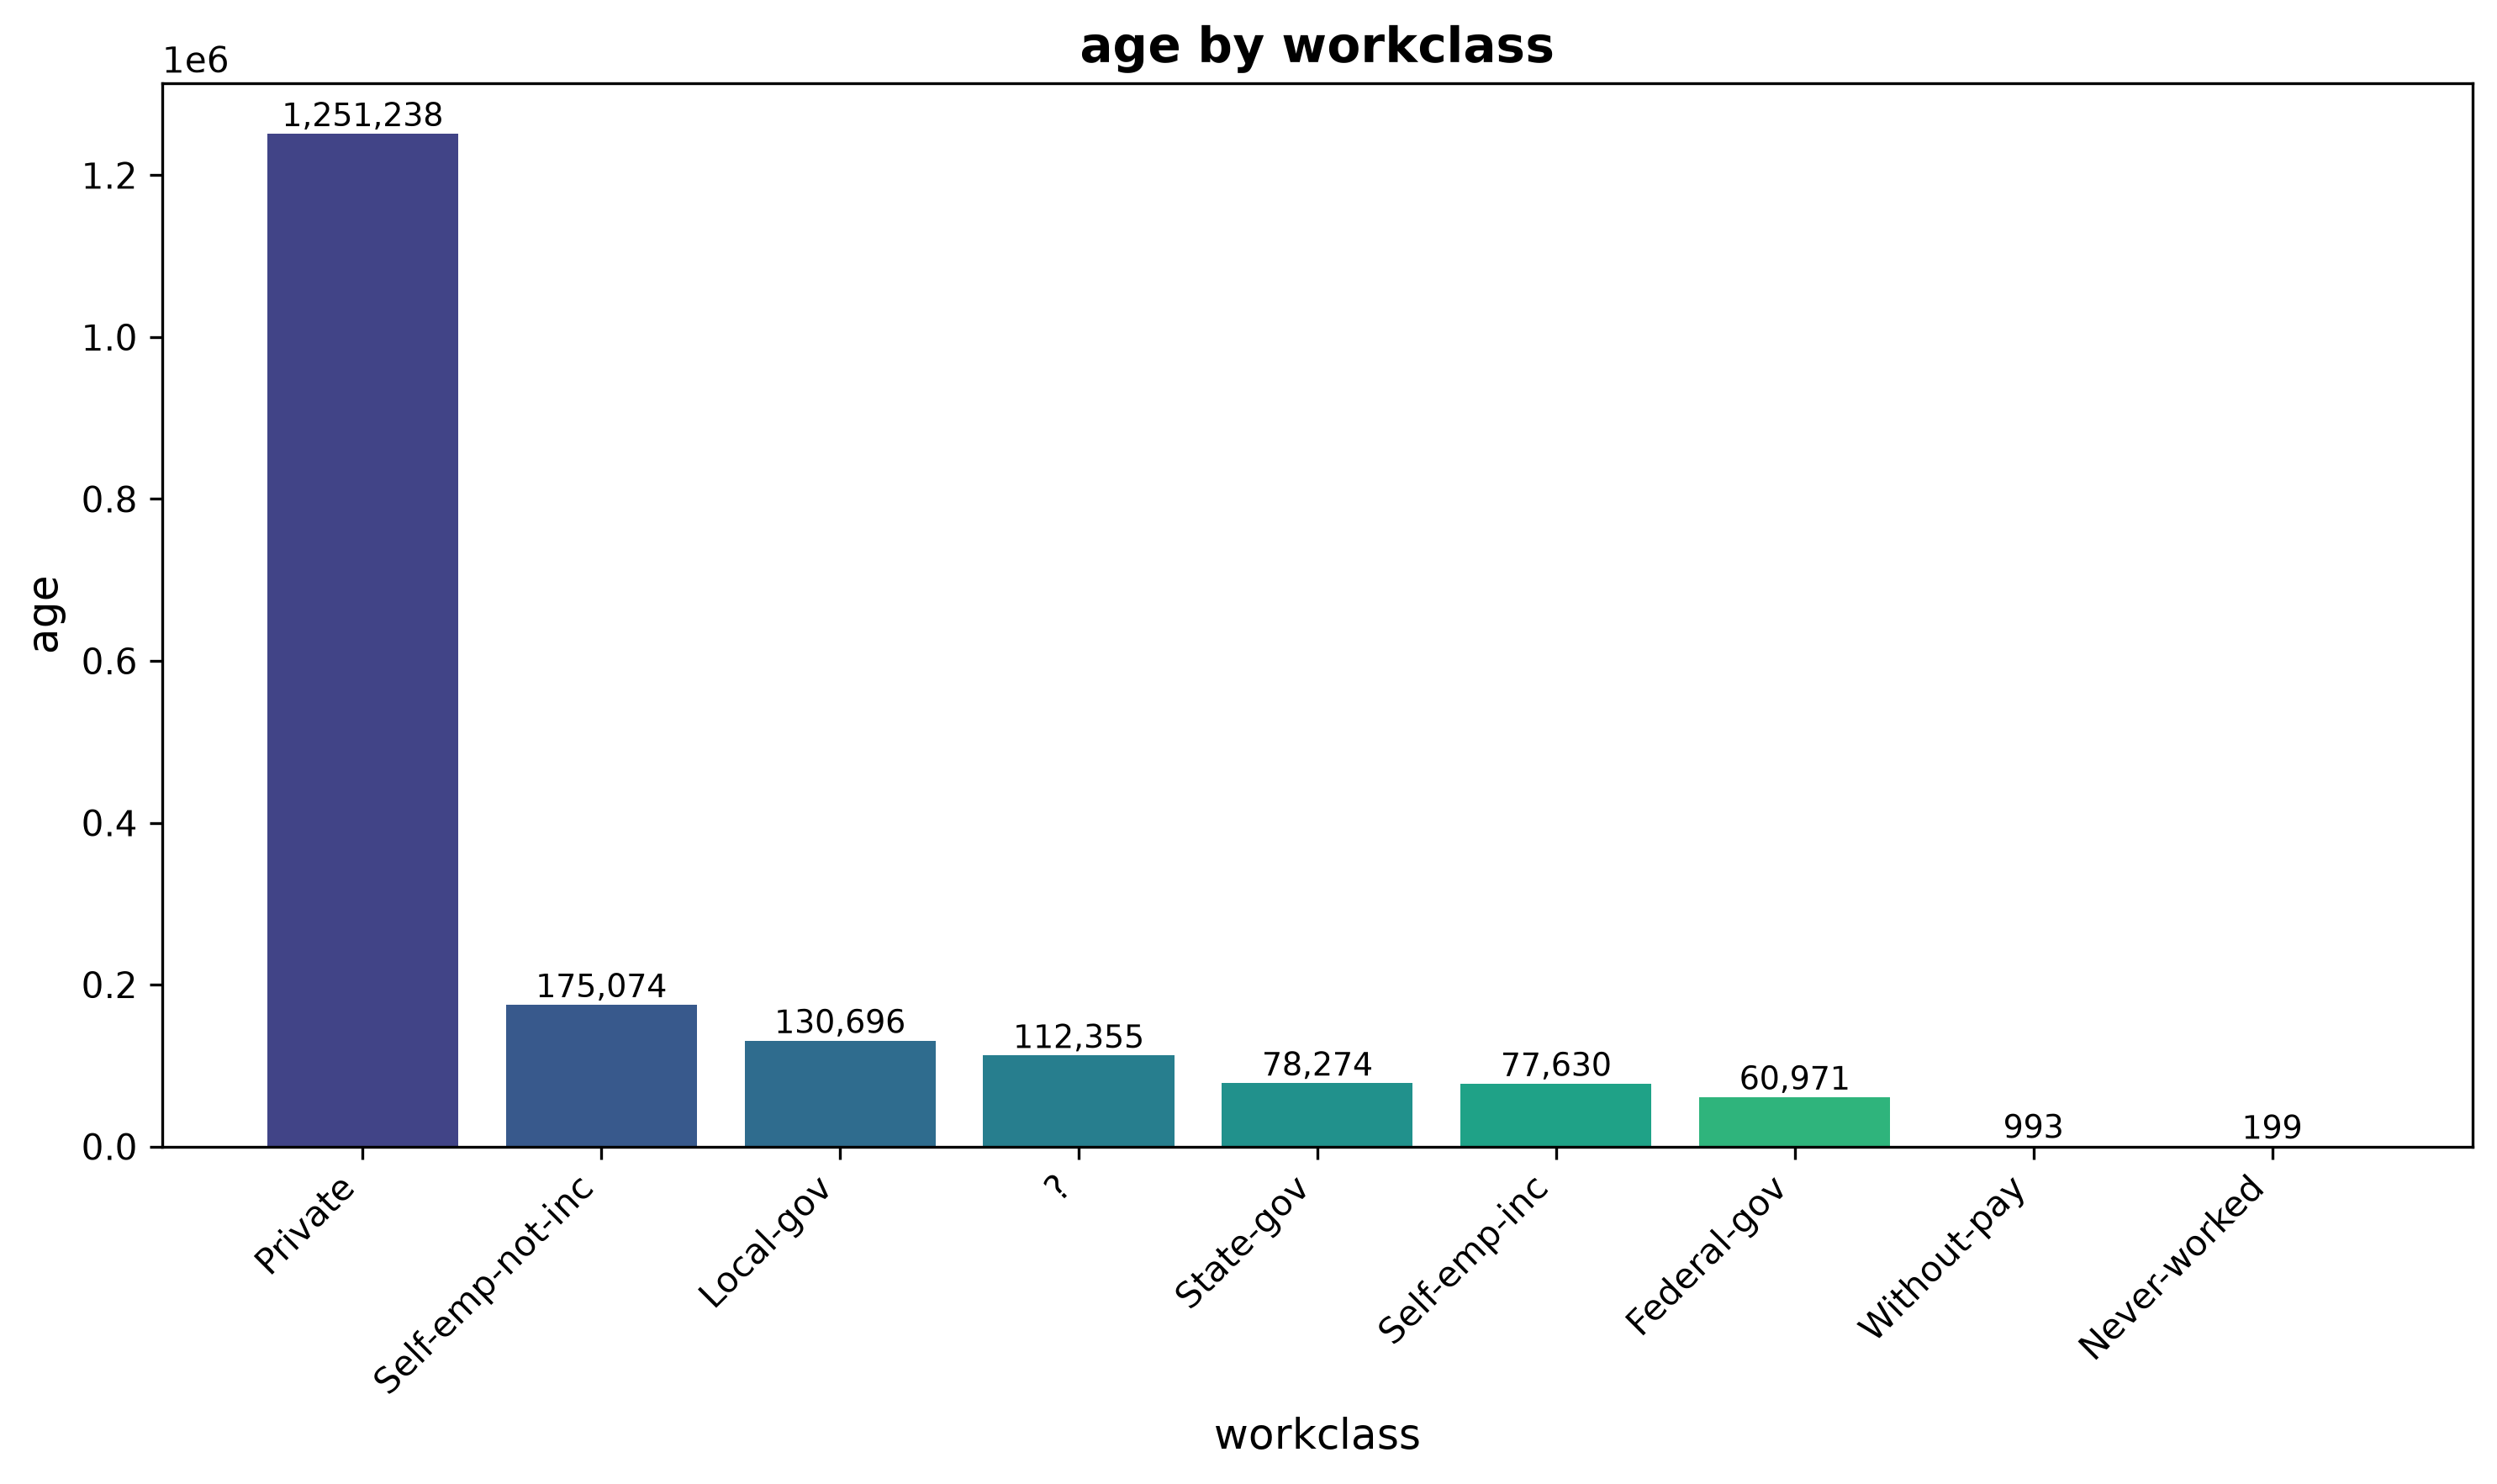
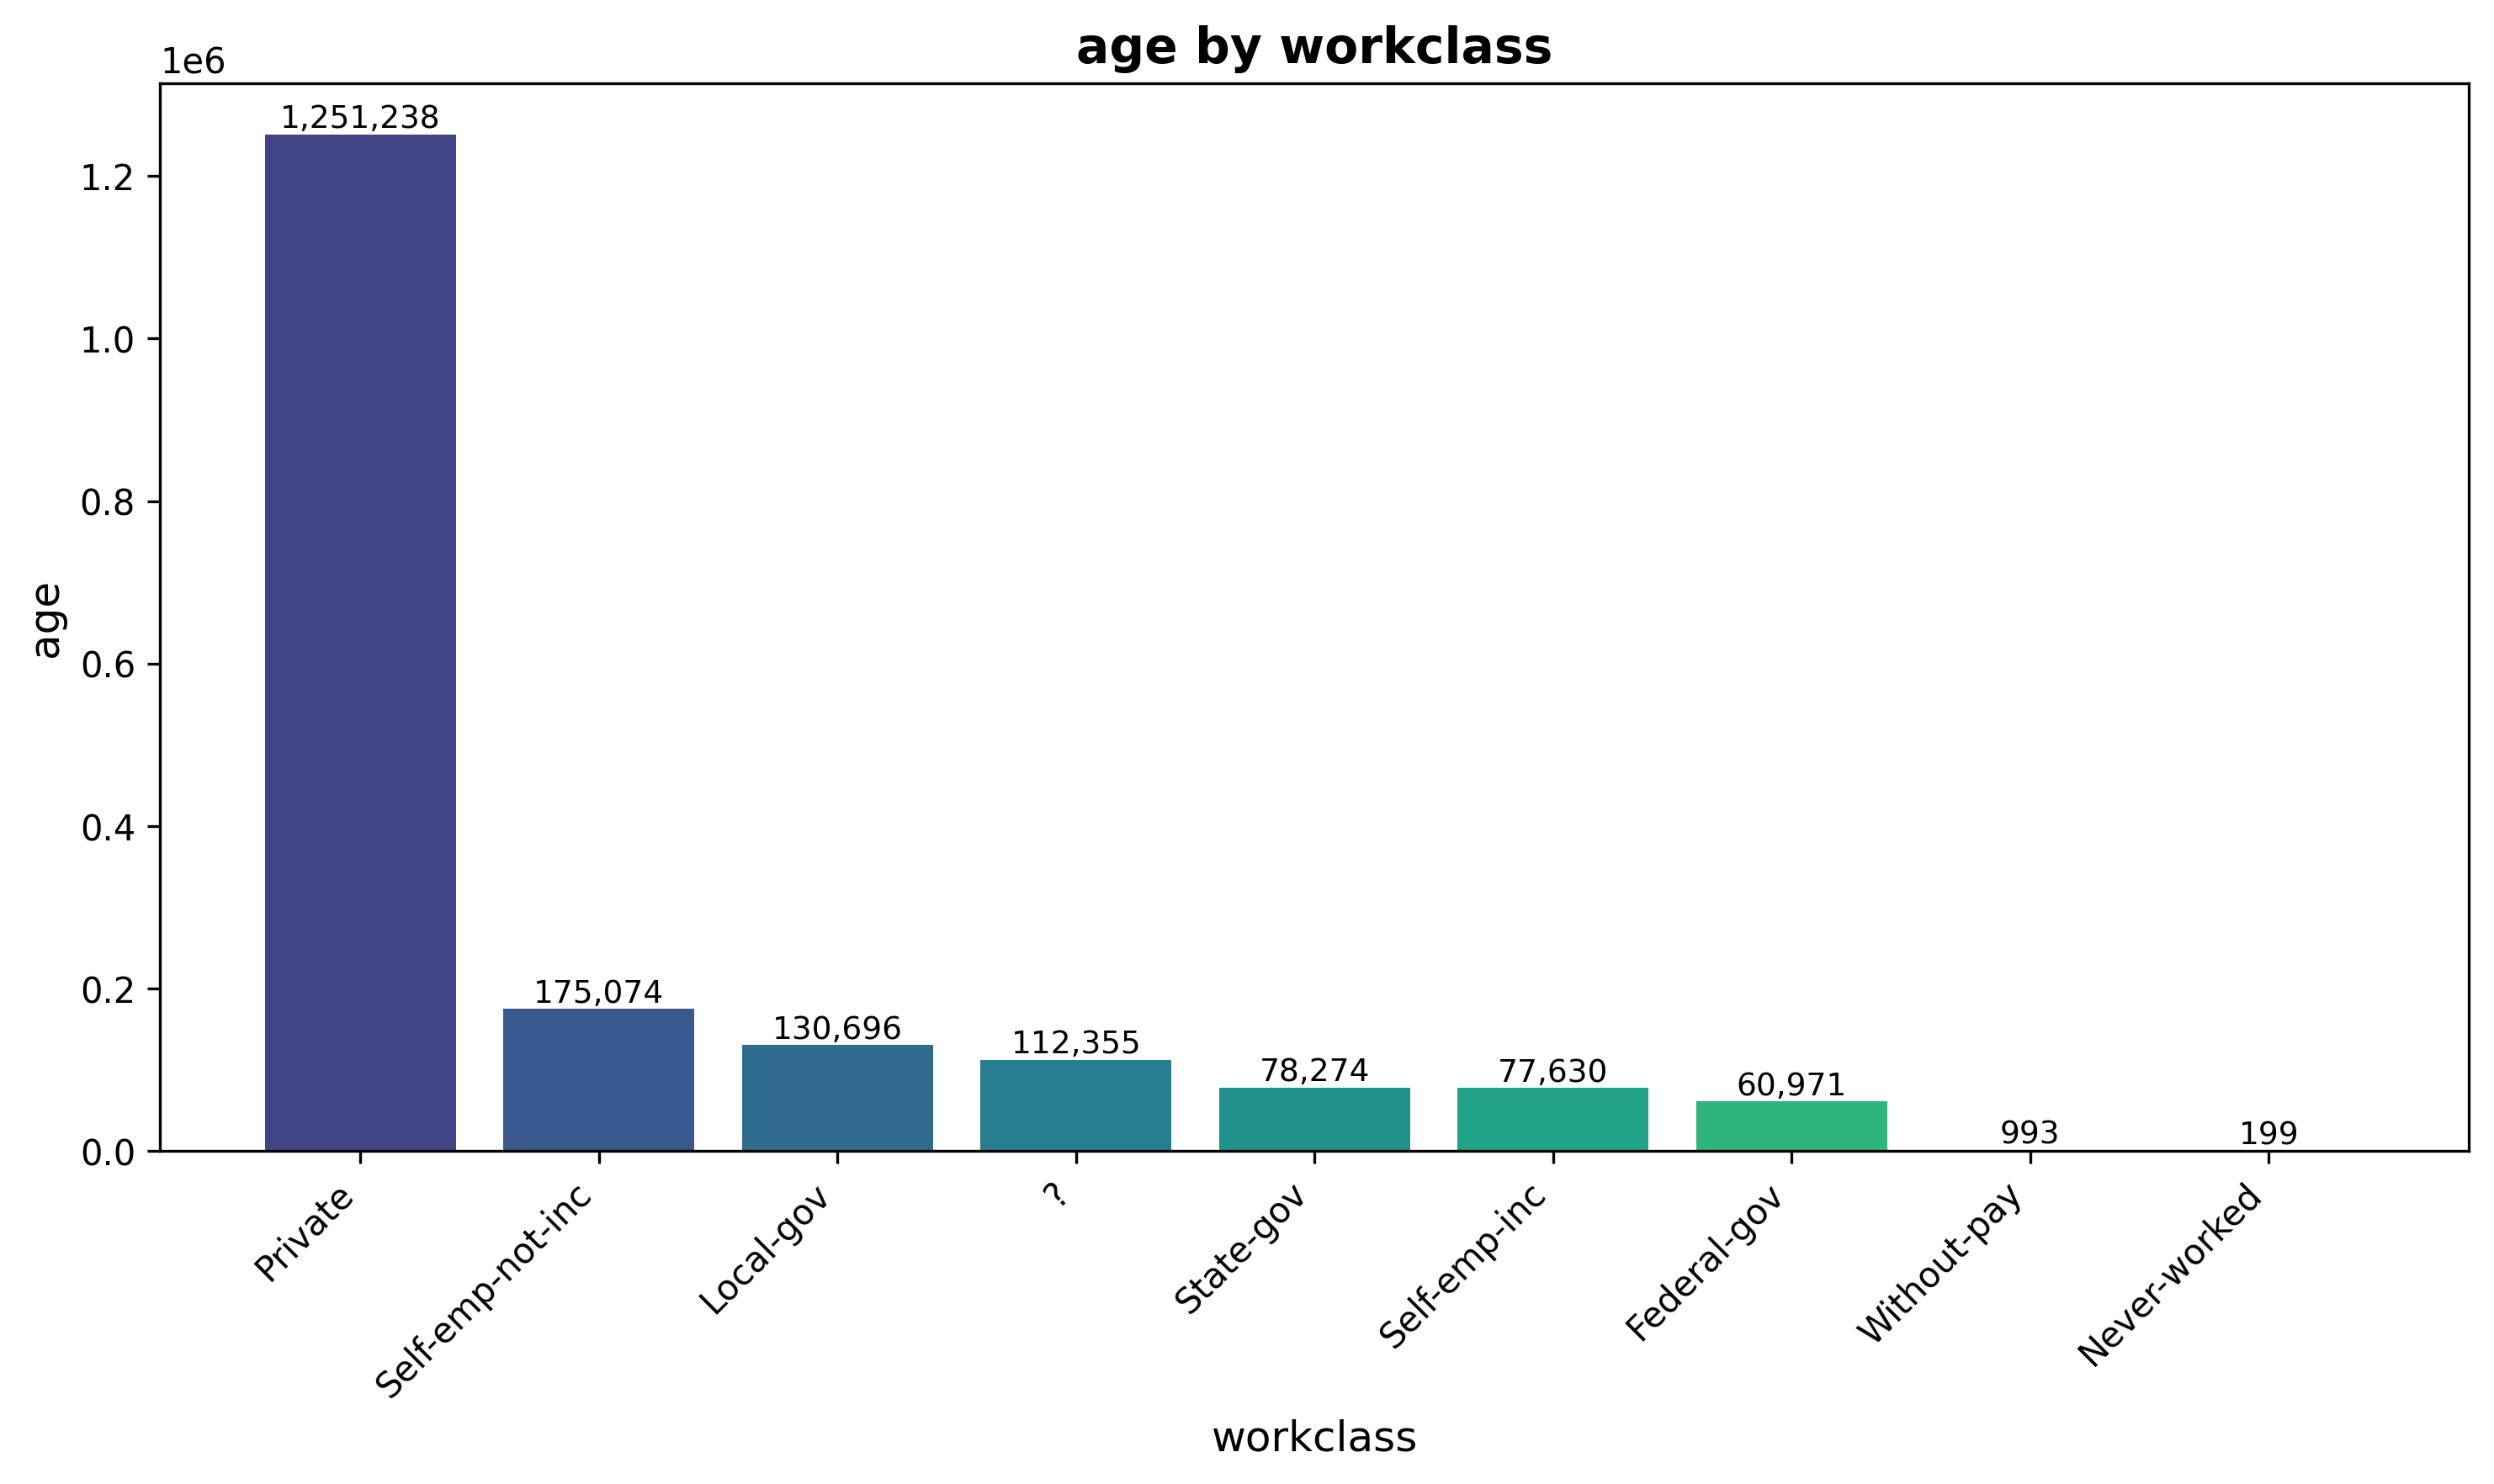
ai-analysis-assistant

diff --git a/frontend/app.py b/frontend/app.py
@@ -413,6 +413,12 @@ if '_temp_question' not in st.session_state:
     st.session_state._temp_question = ""
 if 'last_chart_type' not in st.session_state:
     st.session_state.last_chart_type = "Auto"
+if 'cleaned_df' not in st.session_state:
+    st.session_state.cleaned_df = None
+if 'cleaning_applied' not in st.session_state:
+    st.session_state.cleaning_applied = False
+if 'cleaning_message' not in st.session_state:
+    st.session_state.cleaning_message = ""
 
 # ================================================================
 # HELPER FUNCTIONS - FIXED TABLE FORMATTING
@@ -752,7 +758,7 @@ else:
         st.divider()
         st.subheader("📈 Chart Preview")
         if st.session_state.chart_path:
-            st.image(st.session_state.chart_path, use_column_width=True)
+            st.image(st.session_state.chart_path, width="stretch")  # FIXED
         else:
             if st.button("🔄 Generate Chart", use_container_width=True):
                 try:
@@ -851,11 +857,10 @@ else:
                                                 # Display as a simple table with Index column first
                                                 display_df = pd.DataFrame({
                                                     'Index': first_10.index,
-                                                    'Value': first_10.values
-                                                })
+                                                    'Value': first_10.values                                                })
                                                 # Reorder columns to put Index first
                                                 display_df = display_df[['Index', 'Value']]
-                                                st.dataframe(display_df, use_container_width=True, hide_index=True)
+                                                st.dataframe(display_df, use_container_width=True, hide_index=True)  # FIXED
                                                 
                                                 # --- Show value counts for categorical columns ---
                                                 if col_type == 'object' or col_type.name == 'category' or col_type == 'str':
@@ -893,13 +898,13 @@ else:
                                     
                                     # First 5 rows
                                     st.subheader("📄 First 5 Rows")
-                                    st.dataframe(df_full.head(5), use_container_width=True)
+                                    st.dataframe(df_full.head(5), use_container_width=True)  # FIXED
                                     
                                     st.divider()
                                     
                                     # Last 5 rows
                                     st.subheader("📄 Last 5 Rows")
-                                    st.dataframe(df_full.tail(5), use_container_width=True)
+                                    st.dataframe(df_full.tail(5), use_container_width=True)  # FIXED
                             else:
                                 st.info("No data available to preview")
                         else:
@@ -1053,7 +1058,7 @@ else:
                             f.write(response.content)
                         st.session_state.chart_path = chart_path
                         st.session_state.last_chart_type = chart_type
-                        st.image(chart_path, use_column_width=True)
+                        st.image(chart_path, width="stretch")  # FIXED
                         st.success("✅ Chart generated!")
                     else:
                         st.error(f"Error: {response.text}")
@@ -1061,7 +1066,7 @@ else:
                     st.error(f"Error: {str(e)}")
         
         if st.session_state.chart_path:
-            st.image(st.session_state.chart_path, use_column_width=True)
+            st.image(st.session_state.chart_path, width="stretch")  # FIXED
             
             with open(st.session_state.chart_path, "rb") as f:
                 st.download_button(
@@ -1142,39 +1147,132 @@ else:
     # TAB 5: Export
     # ================================================================
     
+# ================================================================
+# TAB 5: Export (UPGRADED)
+# ================================================================
+
     with tab5:
         st.subheader("📄 Export Analysis")
         
-        col1, col2 = st.columns(2)
-        
-        with col1:
-            if st.button("📊 Export PDF Report", use_container_width=True):
-                with st.spinner("Generating PDF..."):
-                    try:
-                        response = requests.get(f"{st.session_state.api_url}/export-pdf")
-                        if response.status_code == 200:
-                            os.makedirs("exports", exist_ok=True)
-                            filename = f"exports/analysis_report_{datetime.now().strftime('%Y%m%d_%H%M%S')}.pdf"
-                            with open(filename, "wb") as f:
-                                f.write(response.content)
-                            
-                            st.success("✅ PDF generated!")
-                            with open(filename, "rb") as f:
-                                st.download_button(
-                                    label="📥 Download PDF",
-                                    data=f,
-                                    file_name="analysis_report.pdf",
-                                    mime="application/pdf",
-                                    use_container_width=True
-                                )
-                        else:
-                            st.error(f"Error: {response.text}")
-                    except Exception as e:
-                        st.error(f"Error: {str(e)}")
-        
-        with col2:
-            if st.button("📋 Export Summary (JSON)", use_container_width=True):
-                st.json(st.session_state.summary)
+        if not st.session_state.data_loaded:
+            st.info("Please upload a dataset first to export analysis.")
+        else:
+            # Initialize cleaned_df if not exists
+            if 'cleaned_df' not in st.session_state:
+                st.session_state.cleaned_df = None
+            
+            # Get current dataframe
+            try:
+                response = requests.get(f"{st.session_state.api_url}/full-dataset")
+                if response.status_code == 200:
+                    full_data = response.json()
+                    df = pd.DataFrame(full_data.get('data', []))
+                    
+                    # Check if cleaned data exists
+                    if st.session_state.cleaned_df is not None:
+                        df = st.session_state.cleaned_df
+                        is_cleaned = True
+                    else:
+                        is_cleaned = False
+                    
+                    # ============================================================
+                    # SECTION 1: EXPORT OPTIONS
+                    # ============================================================
+                    st.subheader("📊 Export Options")
+                    
+                    col1, col2 = st.columns(2)
+                    
+                    with col1:
+                        st.markdown("""
+                        <div style="background: rgba(255,255,255,0.05); padding: 1rem; border-radius: 12px; border: 1px solid rgba(255,255,255,0.08);">
+                            <h4 style="color: #a78bfa;">📄 PDF Report</h4>
+                            <p style="color: #8892b0; font-size: 0.9rem;">
+                                Generate a comprehensive PDF report including:
+                            </p>
+                            <ul style="color: #8892b0; font-size: 0.85rem;">
+                                <li>Dataset Overview</li>
+                                <li>Data Quality Metrics</li>
+                                <li>AI-Generated Insights</li>
+                                <li>Executive Summary</li>
+                                <li>Chart with AI Explanation</li>
+                            </ul>
+                        </div>
+                        """, unsafe_allow_html=True)
+                        
+                        if st.button("📊 Generate PDF Report", use_container_width=True):
+                            with st.spinner("Generating comprehensive PDF report..."):
+                                try:
+                                    response = requests.get(f"{st.session_state.api_url}/export-pdf")
+                                    if response.status_code == 200:
+                                        os.makedirs("exports", exist_ok=True)
+                                        filename = f"exports/analysis_report_{datetime.now().strftime('%Y%m%d_%H%M%S')}.pdf"
+                                        with open(filename, "wb") as f:
+                                            f.write(response.content)
+                                        
+                                        st.success("✅ PDF Report generated successfully!")
+                                        with open(filename, "rb") as f:
+                                            st.download_button(
+                                                label="📥 Download PDF Report",
+                                                data=f,
+                                                file_name="analysis_report.pdf",
+                                                mime="application/pdf",
+                                                use_container_width=True
+                                            )
+                                    else:
+                                        st.error(f"Error generating PDF: {response.text}")
+                                except Exception as e:
+                                    st.error(f"Error: {str(e)}")
+                    
+                    with col2:
+                        st.markdown("""
+                        <div style="background: rgba(255,255,255,0.05); padding: 1rem; border-radius: 12px; border: 1px solid rgba(255,255,255,0.08);">
+                            <h4 style="color: #a78bfa;">📥 Download Cleaned Dataset</h4>
+                            <p style="color: #8892b0; font-size: 0.9rem;">
+                                Download the cleaned dataset as CSV.
+                            </p>
+                            <ul style="color: #8892b0; font-size: 0.85rem;">
+                                <li>✅ Only available if cleaned</li>
+                                <li>✅ Ready for further analysis</li>
+                                <li>✅ Preserves all data quality improvements</li>
+                            </ul>
+                        </div>
+                        """, unsafe_allow_html=True)
+                        
+                        if st.button("📥 Download Cleaned Dataset", use_container_width=True):
+                            if is_cleaned:
+                                try:
+                                    # Convert cleaned dataframe to CSV
+                                    csv_data = st.session_state.cleaned_df.to_csv(index=False)
+                                    
+                                    st.success("✅ Cleaned dataset ready for download!")
+                                    st.download_button(
+                                        label="📥 Download CSV",
+                                        data=csv_data,
+                                        file_name=f"cleaned_dataset_{datetime.now().strftime('%Y%m%d_%H%M%S')}.csv",
+                                        mime="text/csv",
+                                        use_container_width=True
+                                    )
+                                except Exception as e:
+                                    st.error(f"Error: {str(e)}")
+                            else:
+                                st.error("❌ You have not cleaned the dataset yet. Please go to the Data Cleaning tab first.")
+                    
+                    st.divider()
+                    
+                    # ============================================================
+                    # SECTION 2: CLEANING STATUS
+                    # ============================================================
+                    st.subheader("📋 Cleaning Status")
+                    
+                    if is_cleaned:
+                        st.success(f"✅ Dataset has been cleaned. {len(st.session_state.cleaned_df):,} rows, {len(st.session_state.cleaned_df.columns)} columns")
+                    else:
+                        st.warning("⚠️ Dataset has not been cleaned yet. Visit the Data Cleaning tab to clean your data.")
+                        
+                else:
+                    st.error("Could not load dataset for export")
+            except Exception as e:
+                st.error(f"Error loading data: {str(e)}")
     
     # ================================================================
     # TAB 7: Data Cleaning & Info
@@ -1267,7 +1365,7 @@ else:
                             'Missing Values': missing_data.values,
                             'Percentage': (missing_data.values / len(df) * 100).round(2)
                         })
-                        st.dataframe(missing_df, use_container_width=True)
+                        st.dataframe(missing_df, use_container_width=True)  # FIXED
                     else:
                         st.success("✅ No missing values found in the dataset!")
                     
@@ -1520,7 +1618,7 @@ else:
                             describe_df.loc[col, 'unique'] = df[col].nunique()
                             describe_df.loc[col, 'top'] = df[col].mode()[0] if not df[col].mode().empty else ''
                             describe_df.loc[col, 'freq'] = df[col].value_counts().iloc[0] if len(df[col].value_counts()) > 0 else 0
-                    st.dataframe(describe_df, use_container_width=True)
+                    st.dataframe(describe_df, use_container_width=True)  # FIXED
                 
                 st.divider()
                 
@@ -1550,7 +1648,7 @@ else:
                         }
                         numeric_stats.append(stats)
                     stats_df = pd.DataFrame(numeric_stats)
-                    st.dataframe(stats_df.round(2), use_container_width=True)
+                    st.dataframe(stats_df.round(2), use_container_width=True)  # FIXED
                 else:
                     st.info("No numeric columns found in the dataset.")
                 
@@ -1573,7 +1671,7 @@ else:
                                 'Count': value_counts.values,
                                 'Percentage': (value_counts.values / total * 100).round(2)
                             })
-                            st.dataframe(cat_df.head(10), use_container_width=True)
+                            st.dataframe(cat_df.head(10), use_container_width=True)  # FIXED
                             st.write(f"**Total categories:** {len(value_counts)}")
                             st.write(f"**Most common:** '{value_counts.index[0]}' ({value_counts.iloc[0]} occurrences, {(value_counts.iloc[0]/total*100):.1f}%)")
                     
@@ -1621,7 +1719,7 @@ else:
                             }
                     
                     outlier_df = pd.DataFrame(outlier_results)
-                    st.dataframe(outlier_df.round(2), use_container_width=True)
+                    st.dataframe(outlier_df.round(2), use_container_width=True)  # FIXED
                     
                     columns_with_outliers = outlier_df[outlier_df['Outliers Count'] > 0]
                     
@@ -1651,7 +1749,7 @@ else:
                                         'Status': ['⚠️ Outlier'] * len(values[:10])
                                     })
                                     st.write(f"**First 10 outlier values in `{col}`:**")
-                                    st.dataframe(outlier_vals_df, use_container_width=True, hide_index=True)
+                                    st.dataframe(outlier_vals_df, use_container_width=True, hide_index=True)  # FIXED
                                     if len(values) > 10:
                                         st.write(f"... and {len(values) - 10} more outliers")
                                     st.write(f"**Range of outliers:** {min(values):.2f} to {max(values):.2f}")